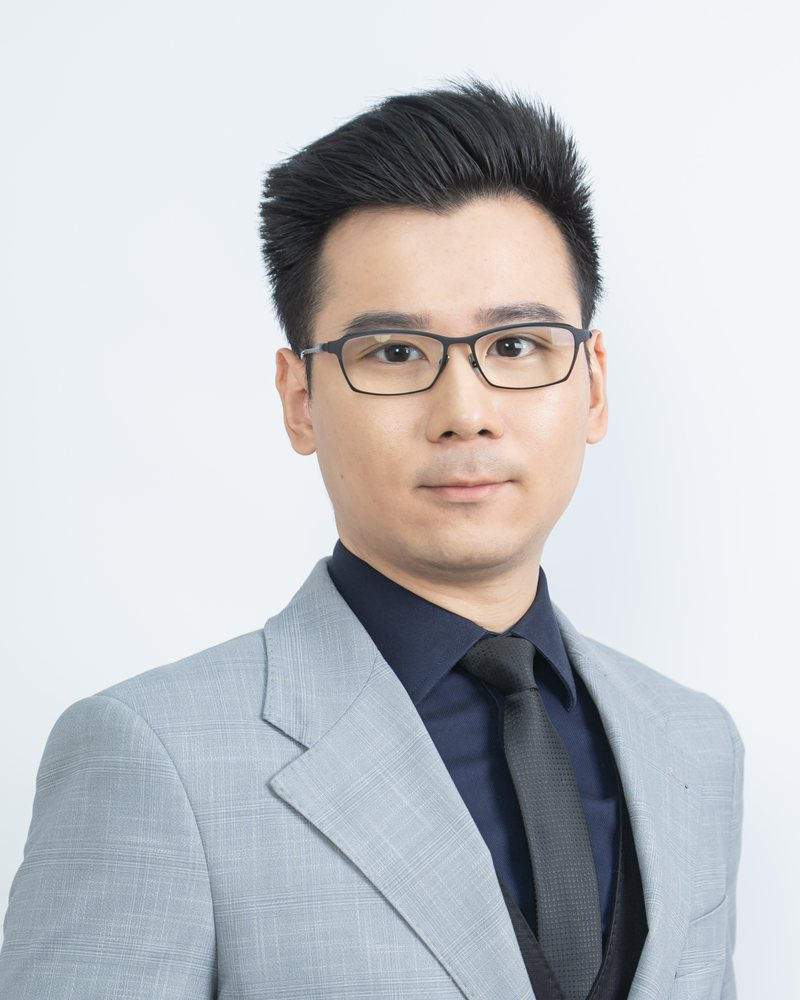
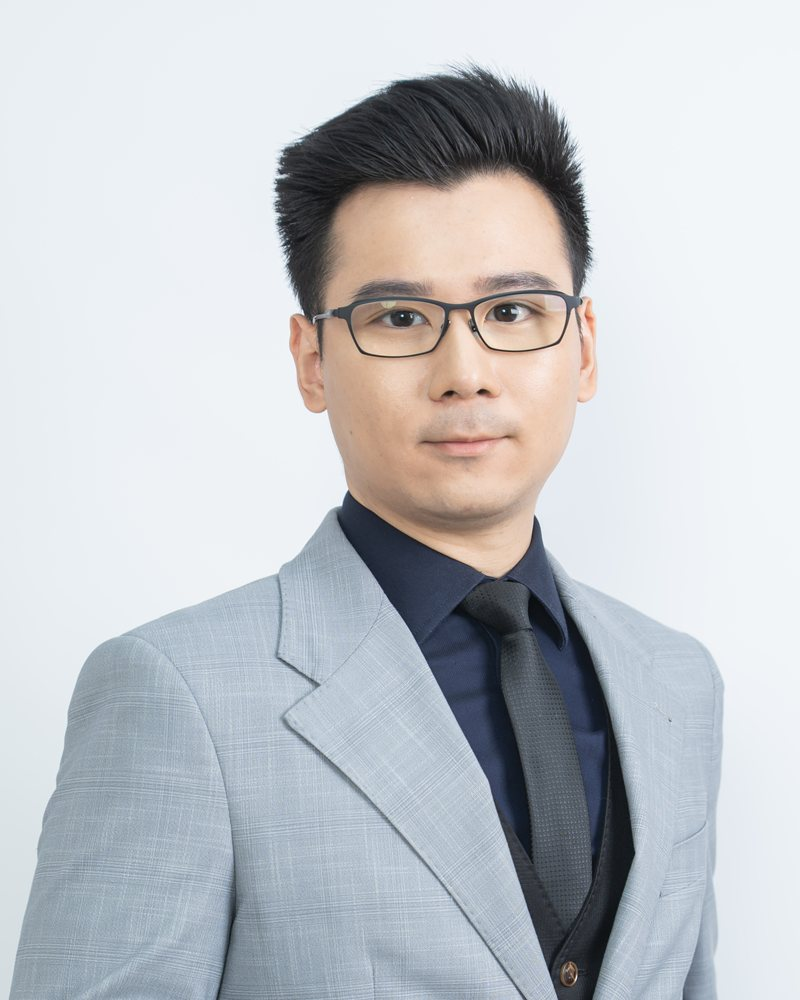
Re-crop Maggie, Leon, Alex team photos for consistent head size and centring

diff --git a/sw.js b/sw.js
@@ -4,7 +4,7 @@
  * is not the current CACHE, and skipWaiting()/clients.claim() make the new
  * worker take over promptly so users do not get stuck on a stale version.
  */
-const CACHE = 'ccm-v4-20261006';
+const CACHE = 'ccm-v4-20261006b';
 const ASSETS = [
   './',
   './index.html',
